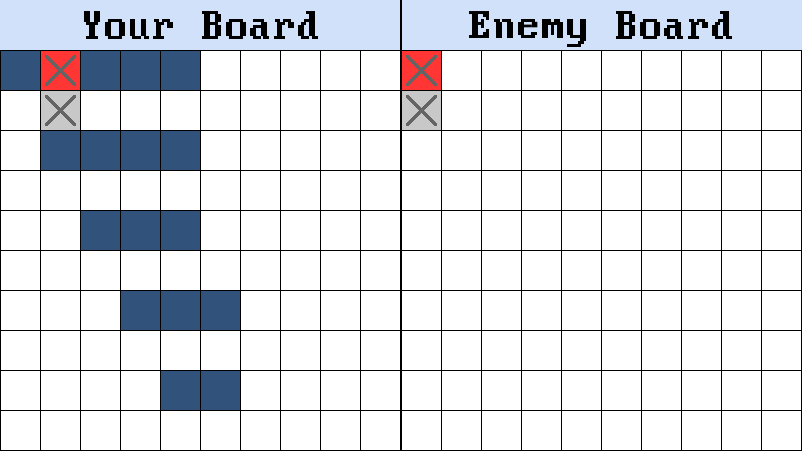
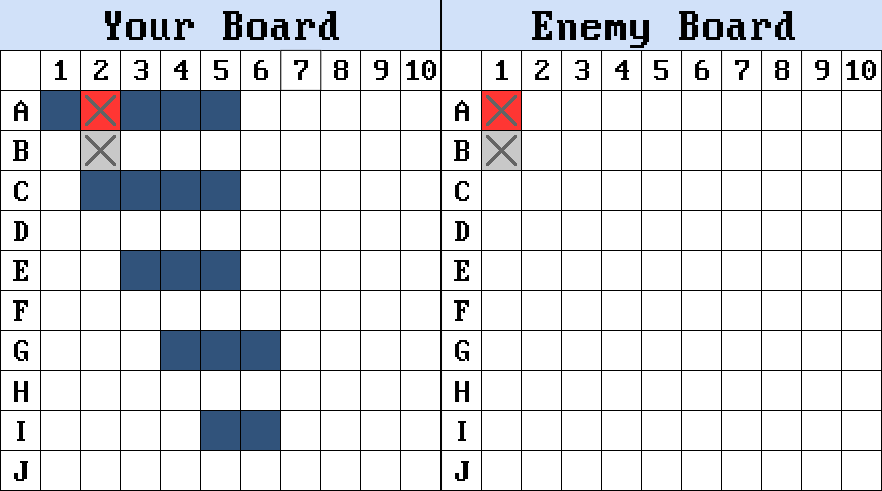
Game template is working/designed properly

Changed region(s): [[0.0, 0.0, 1.0, 1.0]]

diff --git a/main.go b/main.go
@@ -10,22 +10,22 @@ import (
 
 func main() {
 	w, h := 401, 401
-	fullImage := image.NewRGBA(image.Rect(0, 0, w*2, h+50))
+	fullImage := image.NewRGBA(image.Rect(0, 0, 882, 491))
 
-	f, err := os.Open("game_header.png")
+	f, err := os.Open("game_template.png")
 	if err != nil {
 		panic(err)
 	}
 
-	gameHeaderImg, _, err := image.Decode(f)
+	gameTemplateImg, _, err := image.Decode(f)
 	if err != nil {
 		panic(err)
 	}
 
-	draw.Draw(fullImage, image.Rect(0, 0, 802, 50), gameHeaderImg, image.Pt(0, 0), draw.Over)
+	draw.Draw(fullImage, image.Rect(0, 0, 882, 491), gameTemplateImg, image.Pt(0, 0), draw.Over)
 
-	yourGameBoard := fullImage.SubImage(image.Rect(0, 50, w, h+50)).(*image.RGBA)
-	theirGameBoard := fullImage.SubImage(image.Rect(w, 50, w*2, h+50)).(*image.RGBA)
+	yourGameBoard := fullImage.SubImage(image.Rect(40, 90, w+80, h+90)).(*image.RGBA)
+	theirGameBoard := fullImage.SubImage(image.Rect(80+w, 90, w*2+80, h+90)).(*image.RGBA)
 
 	gi := NewImage(w, h, yourGameBoard)
 	gi.PlaceAircraftCarrier(0, 0, Horizontal)
